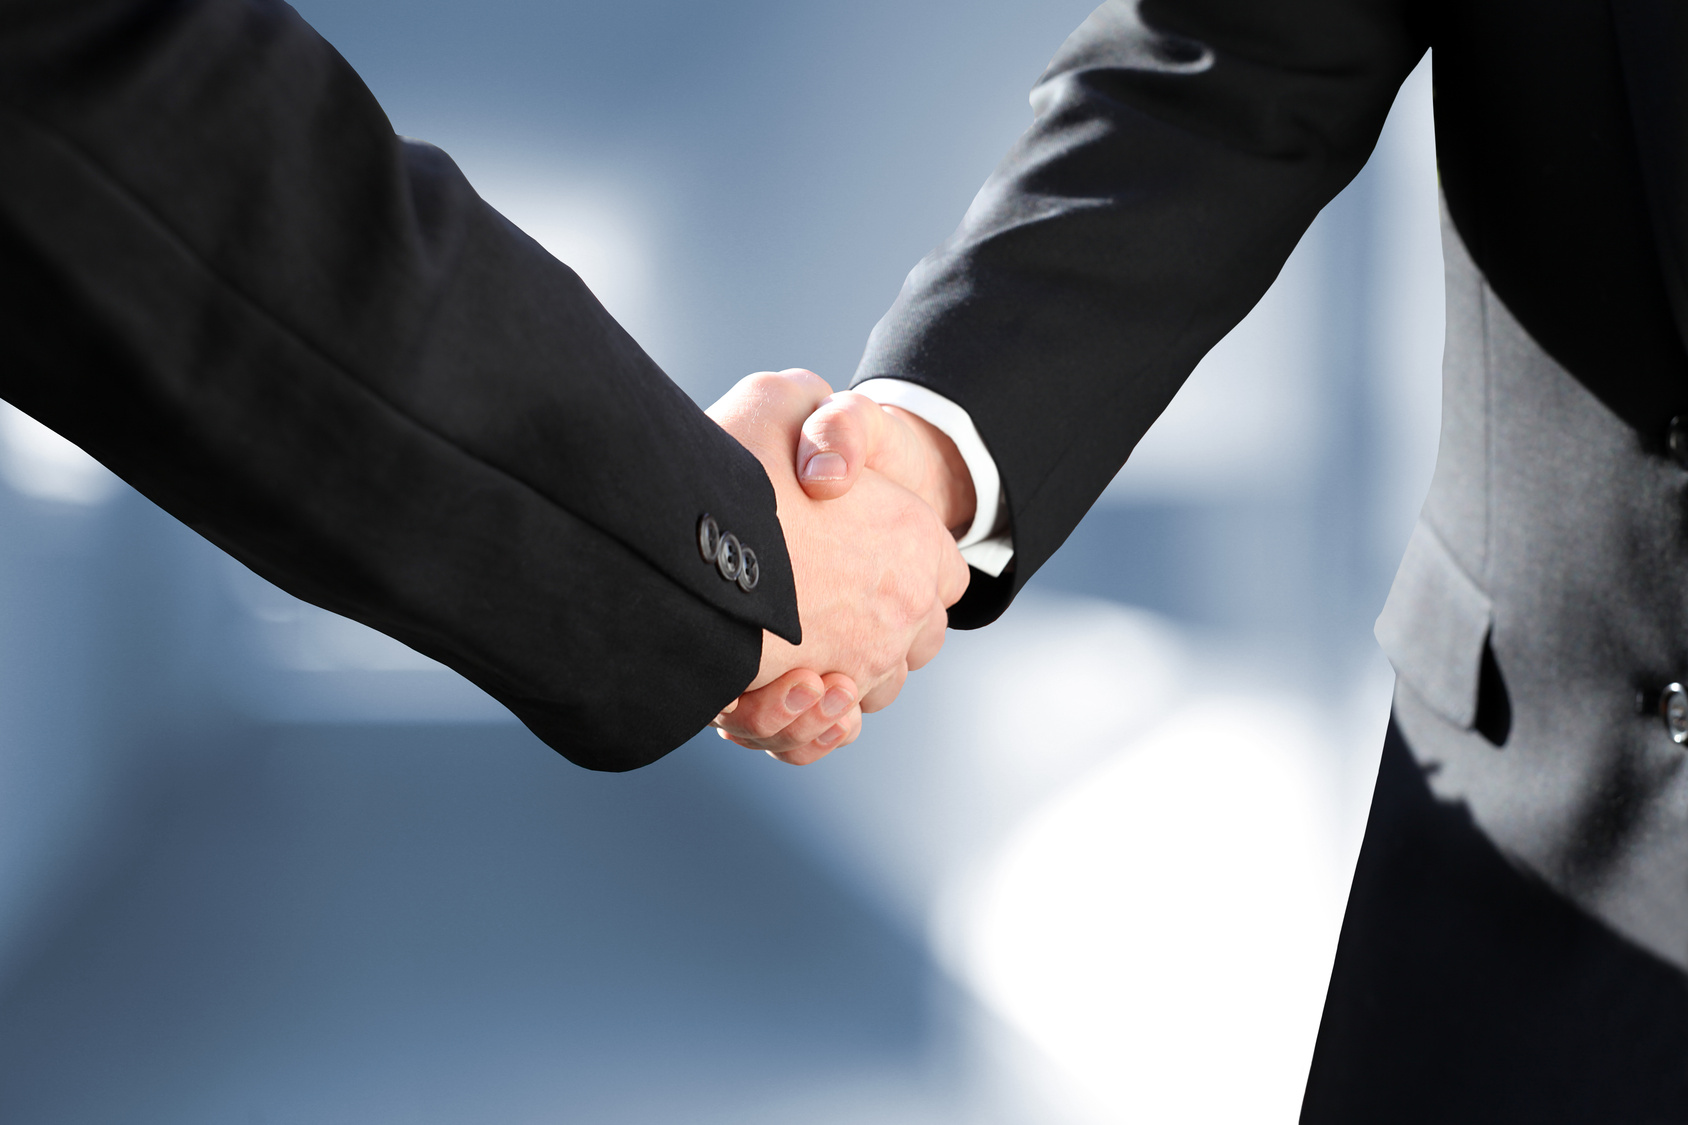
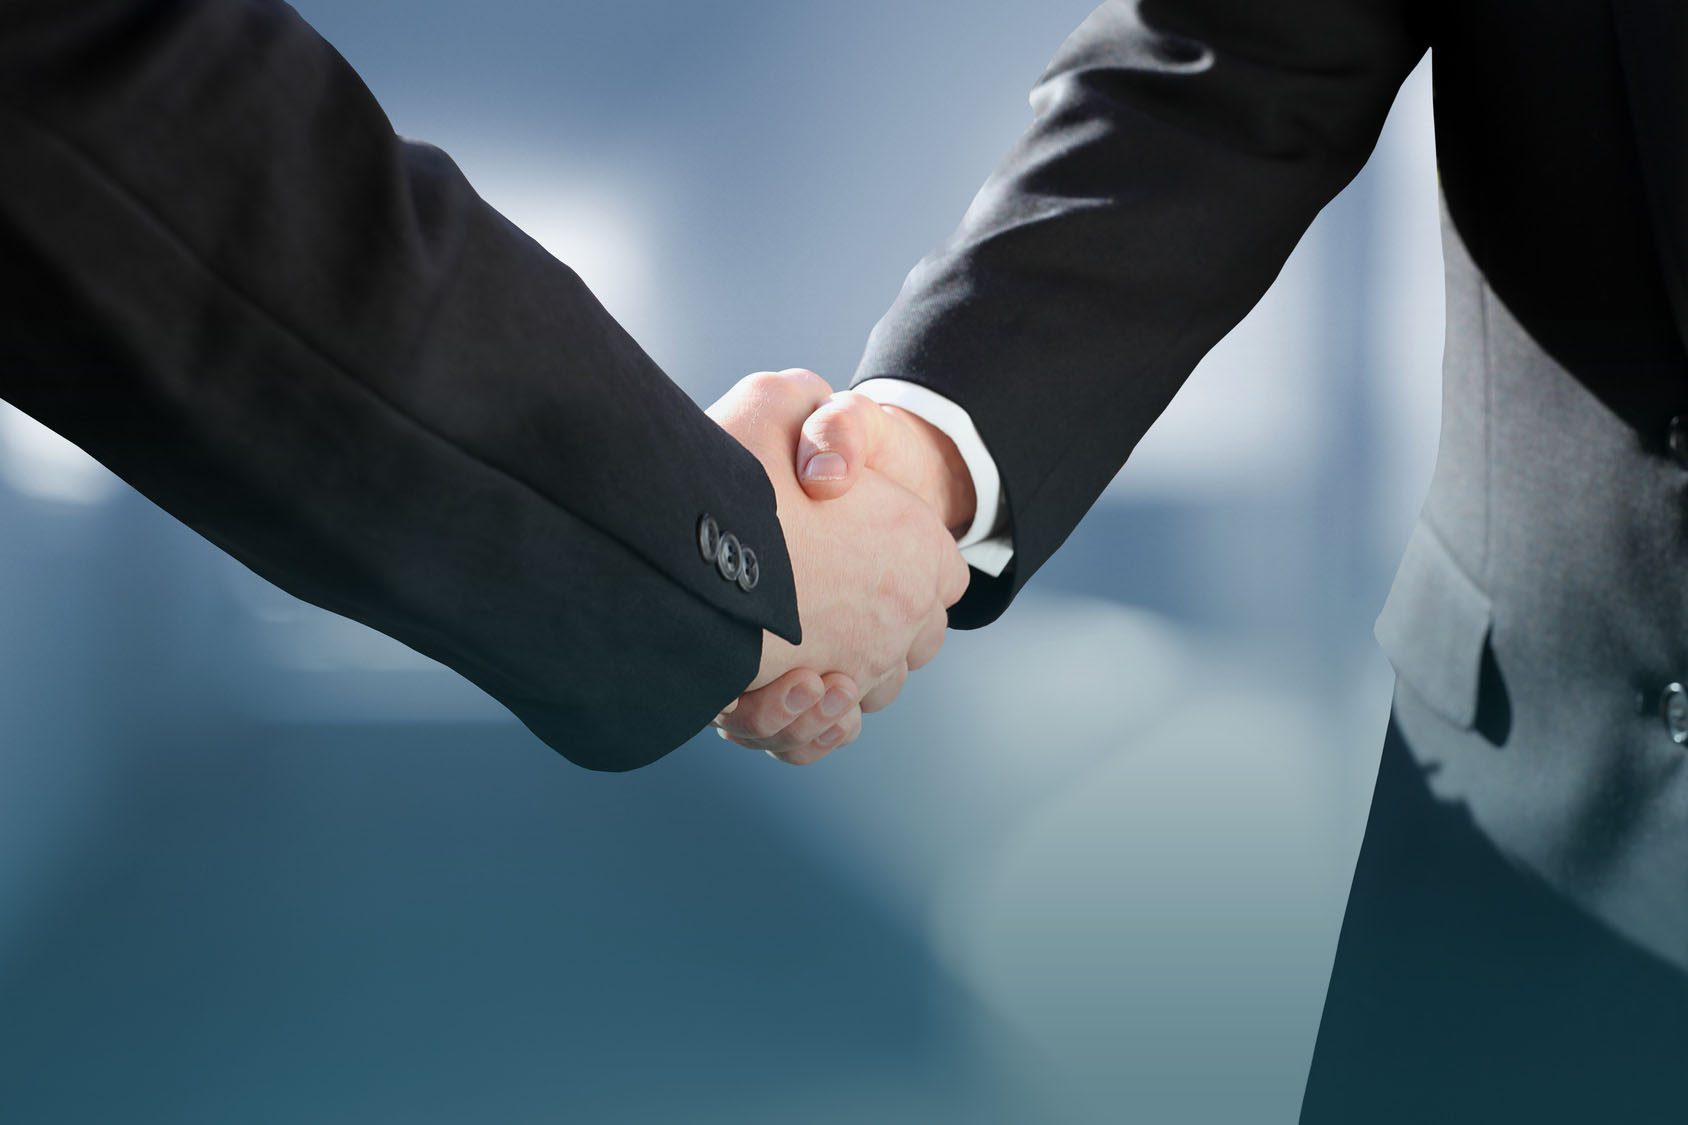
Bild dunkler gemacht wegen Scrolleffekt (weisse Zone)

diff --git a/index.html b/index.html
@@ -13,7 +13,7 @@
 	<div id="site">
 		<div id="header">
 			<div id="topmenu"><span class="fa fa-phone-square fa-fw">&nbsp;</span>06151 / 333 555<span class="fa fa-envelope fa-fw">&nbsp;</span>kontakt@indilex.de</div>
-			<div id="logo" class="floatl"><!-- ###LOGO### begin --><img id="img_logo" src="/fileadmin/indilex/images/logo.jpg"/><!-- ###LOGO### end --></div>
+			<div id="logo" class="floatl"><!-- ###LOGO### begin --><img id="MARKER_not" src="/fileadmin/indilex/images/logo.jpg"/><!-- ###LOGO### end --></div>
 			<div id="mainmenu" class="floatl">
 <!-- ###MAINMENU### Start -->Home | Unternehmen | Leistungen | Karriere | Kontakt<!-- ###MAINMENU### End -->
 			</div>
